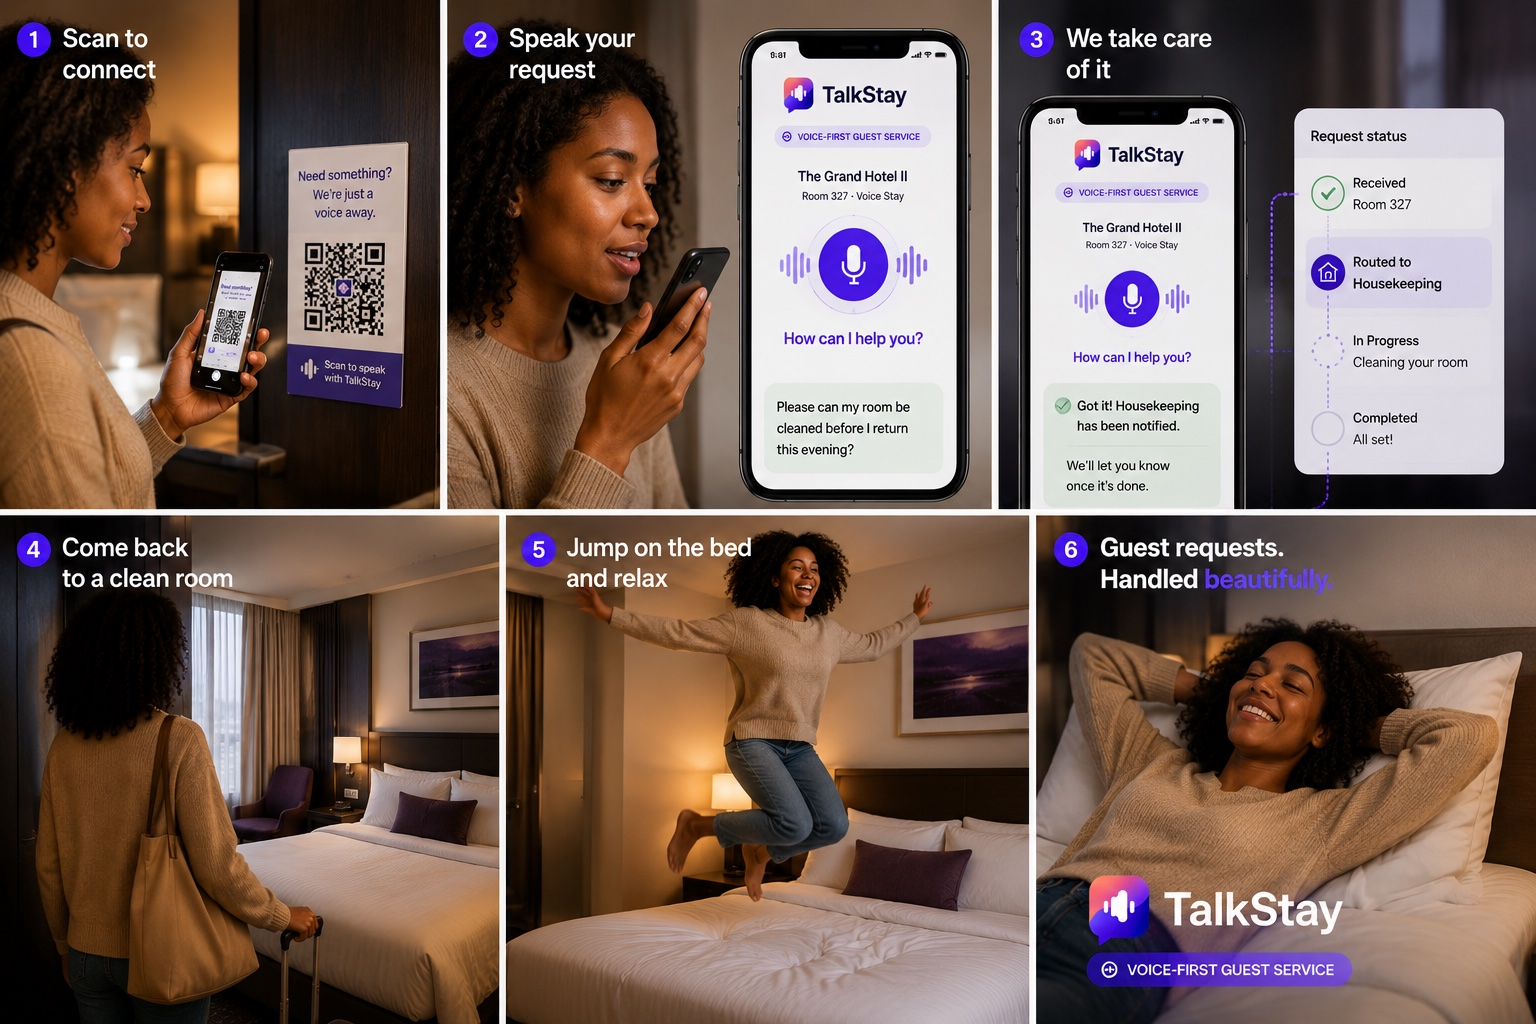
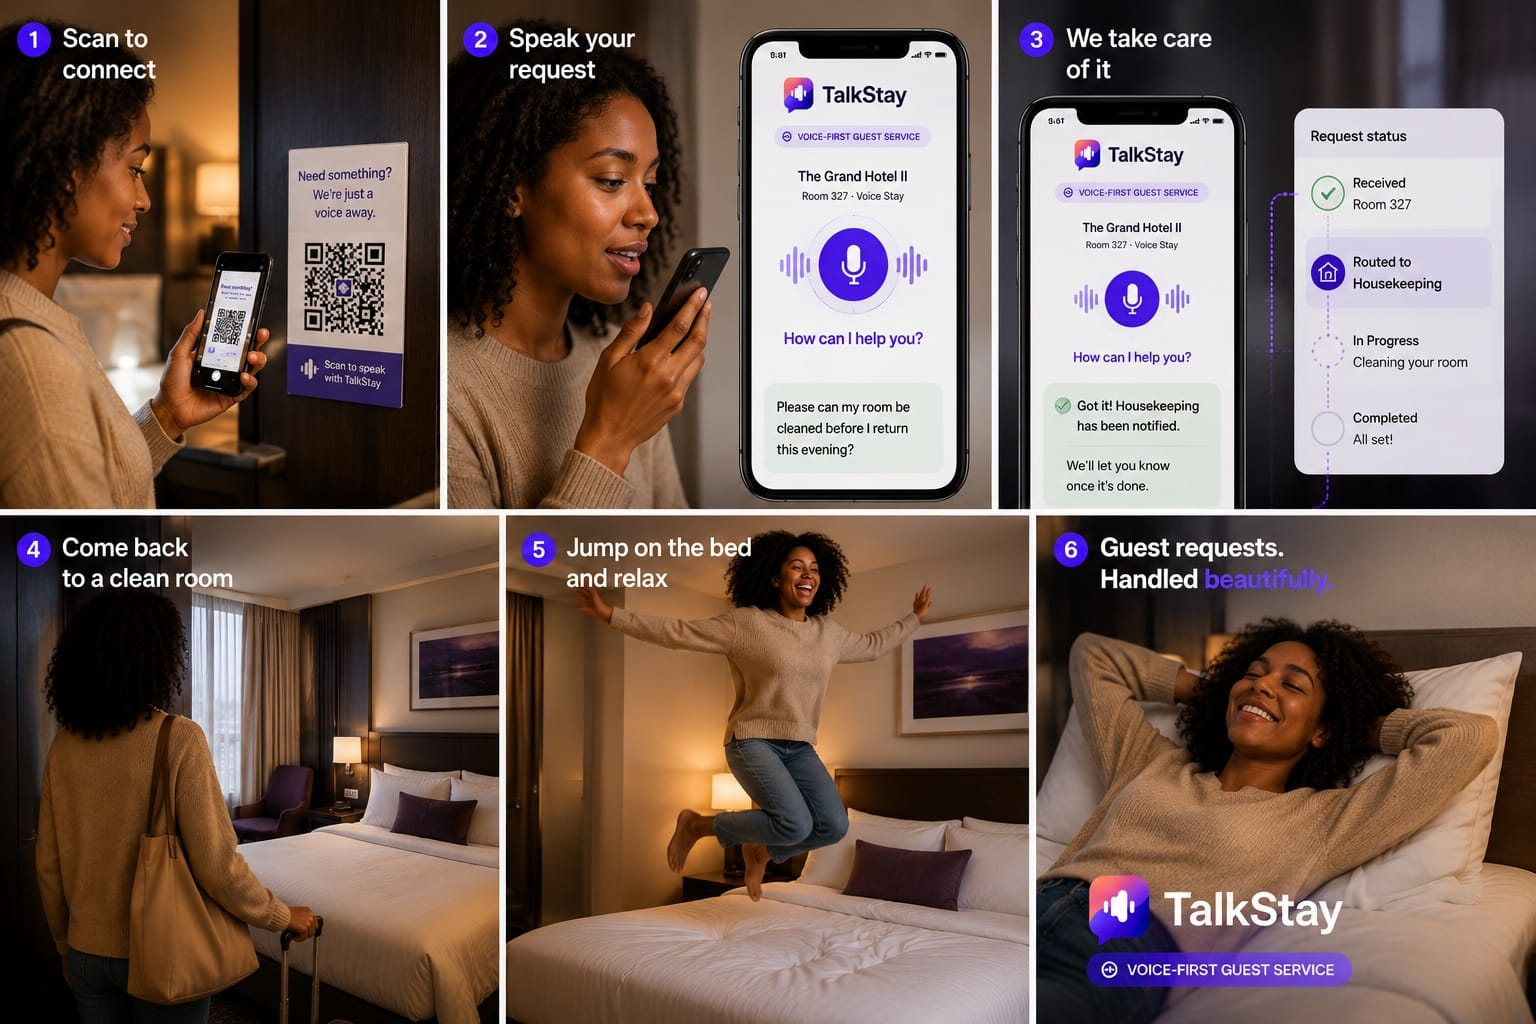
TalkStay: speed up landing images and clarify positioning copy.

diff --git a/src/talkstay/pages/Landing.tsx b/src/talkstay/pages/Landing.tsx
@@ -4,6 +4,8 @@ import { Button } from "@/components/ui/button";
 import {
   PlayCircle, Hotel, House, ArrowRight, Volume2, VolumeX,
   Building2, KeyRound, Mic, Route, CheckCircle2, Languages,
+  Bath, Wifi, Wrench, Star, MessageCircleOff, BarChart3,
+  type LucideIcon,
 } from "lucide-react";
 import TalkStayLogo from "@/talkstay/components/TalkStayLogo";
 import { useAuth } from "@/hooks/useAuth";
@@ -101,7 +103,19 @@ const IMG = {
   heroLqip:
[1 lines of base64/hex data omitted]
   howItWorks: "/marketing/how-it-works.jpg",
+  howItWorksWebp: "/marketing/how-it-works.webp",
+  howItWorksWebpSrcSet:
+    "/marketing/how-it-works-960.webp 960w, /marketing/how-it-works-1400.webp 1400w, /marketing/how-it-works.webp 1536w",
+  howItWorksSizes: "(min-width: 1152px) 1152px, calc(100vw - 3rem)",
+  howItWorksLqip:
[1 lines of base64/hex data omitted]
   guestSquare: "/marketing/guest-square.jpg",
+  guestSquareWebp: "/marketing/guest-square.webp",
+  guestSquareWebpSrcSet:
+    "/marketing/guest-square-640.webp 640w, /marketing/guest-square-1000.webp 1000w, /marketing/guest-square.webp 1100w",
+  guestSquareSizes: "(min-width: 1024px) 532px, calc(100vw - 3rem)",
+  guestSquareLqip:
[1 lines of base64/hex data omitted]
   hospitality: "/marketing/hospitality-icon.png",
 };
 
@@ -125,7 +139,7 @@ function Photo({ src, alt, className = "", eager = false, fit = "cover",
   const [loaded, setLoaded] = useState(false);
   const imgClass = `h-full w-full transition-opacity duration-300 ${
     fit === "contain" ? "object-contain" : "object-cover"
-  } ${eager && !loaded ? "opacity-0" : "opacity-100"}`;
+  } ${lqip && !loaded ? "opacity-0" : "opacity-100"}`;
   return (
     <div
       className={`relative overflow-hidden bg-gradient-to-br from-violet-600 via-indigo-600 to-[#2e1065] ${className}`}
@@ -270,43 +284,76 @@ function Hero({ signedIn }: { signedIn: boolean }) {
   );
 }
 
-// Old-way / TalkStay contrasts — the operator's pain, not just guest convenience.
-const cases = [
+/** Visual “old vs TalkStay” beats — colour + icon, with the full explanation intact. */
+const cases: {
+  title: string;
+  old: string;
+  now: string;
+  win: string;
+  Icon: LucideIcon;
+  iconWrap: string;
+  iconColor: string;
+  tint: string;
+}[] = [
   {
     title: "One towel request shouldn't involve three members of staff.",
     old: "Guest → reception → housekeeping → a follow-up call. Slow, and easy to forget.",
     now: "The guest asks once. It's routed straight to housekeeping and tracked to done.",
     win: "Less labour wasted on simple requests.",
+    Icon: Bath,
+    iconWrap: "bg-sky-100",
+    iconColor: "text-sky-600",
+    tint: "from-sky-50/80 to-transparent",
   },
   {
     title: "Your night manager shouldn't answer “What's the Wi-Fi password?” at 1am.",
     old: "Guests call or message staff for the same information, at all hours.",
     now: "Instant answers from your property's knowledge base — day or night.",
     win: "24/7 service without 24/7 interruptions.",
+    Icon: Wifi,
+    iconWrap: "bg-amber-100",
+    iconColor: "text-amber-600",
+    tint: "from-amber-50/80 to-transparent",
   },
   {
     title: "A broken AC isn't a message. It's a task with a deadline.",
     old: "The complaint gets passed around until someone finally acts.",
     now: "It becomes an assigned, trackable maintenance request the moment it's reported.",
     win: "Move from conversations to accountable action.",
+    Icon: Wrench,
+    iconWrap: "bg-orange-100",
+    iconColor: "text-orange-600",
+    tint: "from-orange-50/80 to-transparent",
   },
   {
     title: "The most expensive complaint is the one you find on Booking.com.",
     old: "The guest stays quiet, checks out, then posts two stars.",
     now: "Issues are easy to raise — and resolve — while the guest is still in the room.",
     win: "Recover unhappy guests before checkout.",
+    Icon: Star,
+    iconWrap: "bg-rose-100",
+    iconColor: "text-rose-600",
+    tint: "from-rose-50/80 to-transparent",
   },
   {
     title: "Your guest shouldn't WhatsApp you at 11:30pm to ask how the heating works.",
     old: "For short stays, the host becomes personal customer support all evening.",
     now: "Guests get instant, property-specific answers without messaging you.",
     win: "24/7 guest support without the host being available 24/7.",
+    Icon: MessageCircleOff,
+    iconWrap: "bg-violet-100",
+    iconColor: "text-violet-600",
+    tint: "from-violet-50/80 to-transparent",
   },
   {
     title: "You can't improve what you can't see.",
     old: "Managers hear anecdotes about complaints and slow service.",
     now: "See what guests request, which teams are slow and what gets escalated.",
     win: "Turn guest requests into operational intelligence.",
+    Icon: BarChart3,
+    iconWrap: "bg-emerald-100",
+    iconColor: "text-emerald-600",
+    tint: "from-emerald-50/80 to-transparent",
   },
 ];
 
@@ -351,17 +398,41 @@ export default function Landing() {
           <Hero signedIn={!!user} />
         </section>
 
-        {/* The positioning line. */}
+        {/* Positioning — same request, three audiences, clear value. */}
         <section className="mx-auto mt-20 max-w-6xl px-6 sm:mt-28">
-          <div className="rounded-3xl bg-[#4c2bb8] px-6 py-14 text-center text-white sm:px-12">
-            <h2 className="mx-auto max-w-3xl text-2xl font-bold leading-snug tracking-tight sm:text-4xl">
-              One guest request shouldn't become three staff conversations.
-            </h2>
-            <p className="mx-auto mt-5 max-w-2xl text-white/75">
-              The guest sees a simple request. The operator sees staff time, delays, complaints
-              and reviews. TalkStay fixes both — it removes the repetitive communication layer
-              between guests, reception and your teams.
-            </p>
+          <div className="rounded-3xl bg-[#4c2bb8] px-6 py-12 text-white sm:px-12 sm:py-14">
+            <div className="mx-auto max-w-3xl text-center">
+              <h2 className="text-2xl font-bold leading-snug tracking-tight sm:text-4xl">
+                One guest request shouldn't become three staff conversations.
+              </h2>
+              <p className="mt-4 text-white/75">
+                Today a single ask gets passed guest → reception → team. TalkStay collapses that loop
+                so each side only does their job once.
+              </p>
+            </div>
+            <div className="mx-auto mt-10 grid max-w-4xl gap-8 text-left sm:grid-cols-3 sm:gap-6">
+              <div>
+                <p className="text-xs font-semibold uppercase tracking-wide text-violet-200">Guest</p>
+                <p className="mt-2 text-base font-semibold tracking-tight">Ask once. Done.</p>
+                <p className="mt-1.5 text-sm leading-relaxed text-white/70">
+                  Scan the room QR, speak or type the request, and get progress without chasing the front desk.
+                </p>
+              </div>
+              <div>
+                <p className="text-xs font-semibold uppercase tracking-wide text-violet-200">Reception</p>
+                <p className="mt-2 text-base font-semibold tracking-tight">Stop being the middleman.</p>
+                <p className="mt-1.5 text-sm leading-relaxed text-white/70">
+                  Towels, Wi‑Fi, and maintenance no longer need a phone call, a note, and a follow-up.
+                </p>
+              </div>
+              <div>
+                <p className="text-xs font-semibold uppercase tracking-wide text-violet-200">Your teams</p>
+                <p className="mt-2 text-base font-semibold tracking-tight">A task, not a message.</p>
+                <p className="mt-1.5 text-sm leading-relaxed text-white/70">
+                  Housekeeping and maintenance get a clear, assigned request — tracked until it’s finished.
+                </p>
+              </div>
+            </div>
           </div>
         </section>
 
@@ -375,6 +446,12 @@ export default function Landing() {
           </div>
           <Photo
             src={IMG.howItWorks}
+            webp={IMG.howItWorksWebp}
+            webpSrcSet={IMG.howItWorksWebpSrcSet}
+            sizes={IMG.howItWorksSizes}
+            lqip={IMG.howItWorksLqip}
+            width={1536}
+            height={1024}
             alt="Six steps: scan to connect, speak your request, we take care of it, come back to a clean room, relax, and guest requests handled beautifully."
             className="mt-10 aspect-[1536/1024] w-full rounded-3xl border shadow-sm"
           />
@@ -393,7 +470,7 @@ export default function Landing() {
           </div>
         </section>
 
-        {/* Old way vs TalkStay. */}
+        {/* Old way vs TalkStay — colour + icon, full explanations kept. */}
         <section id="why" className="mx-auto mt-20 max-w-6xl px-6 sm:mt-28">
           <div className="text-center">
             <h2 className="text-2xl font-bold tracking-tight sm:text-3xl">The old way vs TalkStay</h2>
@@ -401,21 +478,37 @@ export default function Landing() {
               Every unnecessary call to reception is a workflow your property should have automated already.
             </p>
           </div>
-          <div className="mt-10 grid gap-5 md:grid-cols-2 lg:grid-cols-3">
-            {cases.map((c) => (
-              <div key={c.title} className="ts-glass flex flex-col rounded-2xl border p-6">
-                <h3 className="text-base font-semibold leading-snug">{c.title}</h3>
+          <div className="mt-10 grid gap-4 sm:grid-cols-2 lg:grid-cols-3">
+            {cases.map(({ title, old, now, win, Icon, iconWrap, iconColor, tint }) => (
+              <div
+                key={title}
+                className={`relative flex flex-col overflow-hidden rounded-2xl border border-black/[0.06] bg-gradient-to-b ${tint} p-5`}
+              >
+                <div className={`flex h-11 w-11 items-center justify-center rounded-xl ${iconWrap}`}>
+                  <Icon className={`h-5 w-5 ${iconColor}`} strokeWidth={2} />
+                </div>
+                <h3 className="mt-4 text-base font-semibold leading-snug tracking-tight">{title}</h3>
                 <div className="mt-4 space-y-3 text-sm">
-                  <div>
-                    <div className="text-xs font-semibold uppercase tracking-wide text-muted-foreground/70">Old way</div>
-                    <p className="mt-0.5 text-muted-foreground">{c.old}</p>
+                  <div className="flex items-start gap-2.5">
+                    <span className="mt-0.5 flex h-5 w-5 shrink-0 items-center justify-center rounded-full bg-rose-100 text-[11px] font-bold text-rose-600">
+                      ×
+                    </span>
+                    <div>
+                      <div className="text-xs font-semibold uppercase tracking-wide text-muted-foreground/70">Old way</div>
+                      <p className="mt-0.5 text-muted-foreground">{old}</p>
+                    </div>
                   </div>
-                  <div>
-                    <div className="text-xs font-semibold uppercase tracking-wide text-violet-600">TalkStay</div>
-                    <p className="mt-0.5">{c.now}</p>
+                  <div className="flex items-start gap-2.5">
+                    <span className="mt-0.5 flex h-5 w-5 shrink-0 items-center justify-center rounded-full bg-emerald-100">
+                      <CheckCircle2 className="h-3.5 w-3.5 text-emerald-600" />
+                    </span>
+                    <div>
+                      <div className="text-xs font-semibold uppercase tracking-wide text-violet-600">TalkStay</div>
+                      <p className="mt-0.5 text-foreground">{now}</p>
+                    </div>
                   </div>
                 </div>
-                <p className="mt-4 border-t pt-3 text-sm font-medium text-violet-700">{c.win}</p>
+                <p className="mt-4 border-t border-black/[0.06] pt-3 text-sm font-medium text-violet-700">{win}</p>
               </div>
             ))}
           </div>
@@ -457,6 +550,12 @@ export default function Landing() {
           <div className="grid items-center gap-10 lg:grid-cols-2">
             <Photo
               src={IMG.guestSquare}
+              webp={IMG.guestSquareWebp}
+              webpSrcSet={IMG.guestSquareWebpSrcSet}
+              sizes={IMG.guestSquareSizes}
+              lqip={IMG.guestSquareLqip}
+              width={1100}
+              height={1008}
               alt="A guest relaxing — guest requests handled beautifully, from anywhere."
               className="aspect-[1310/1201] w-full rounded-3xl shadow-xl"
             />
